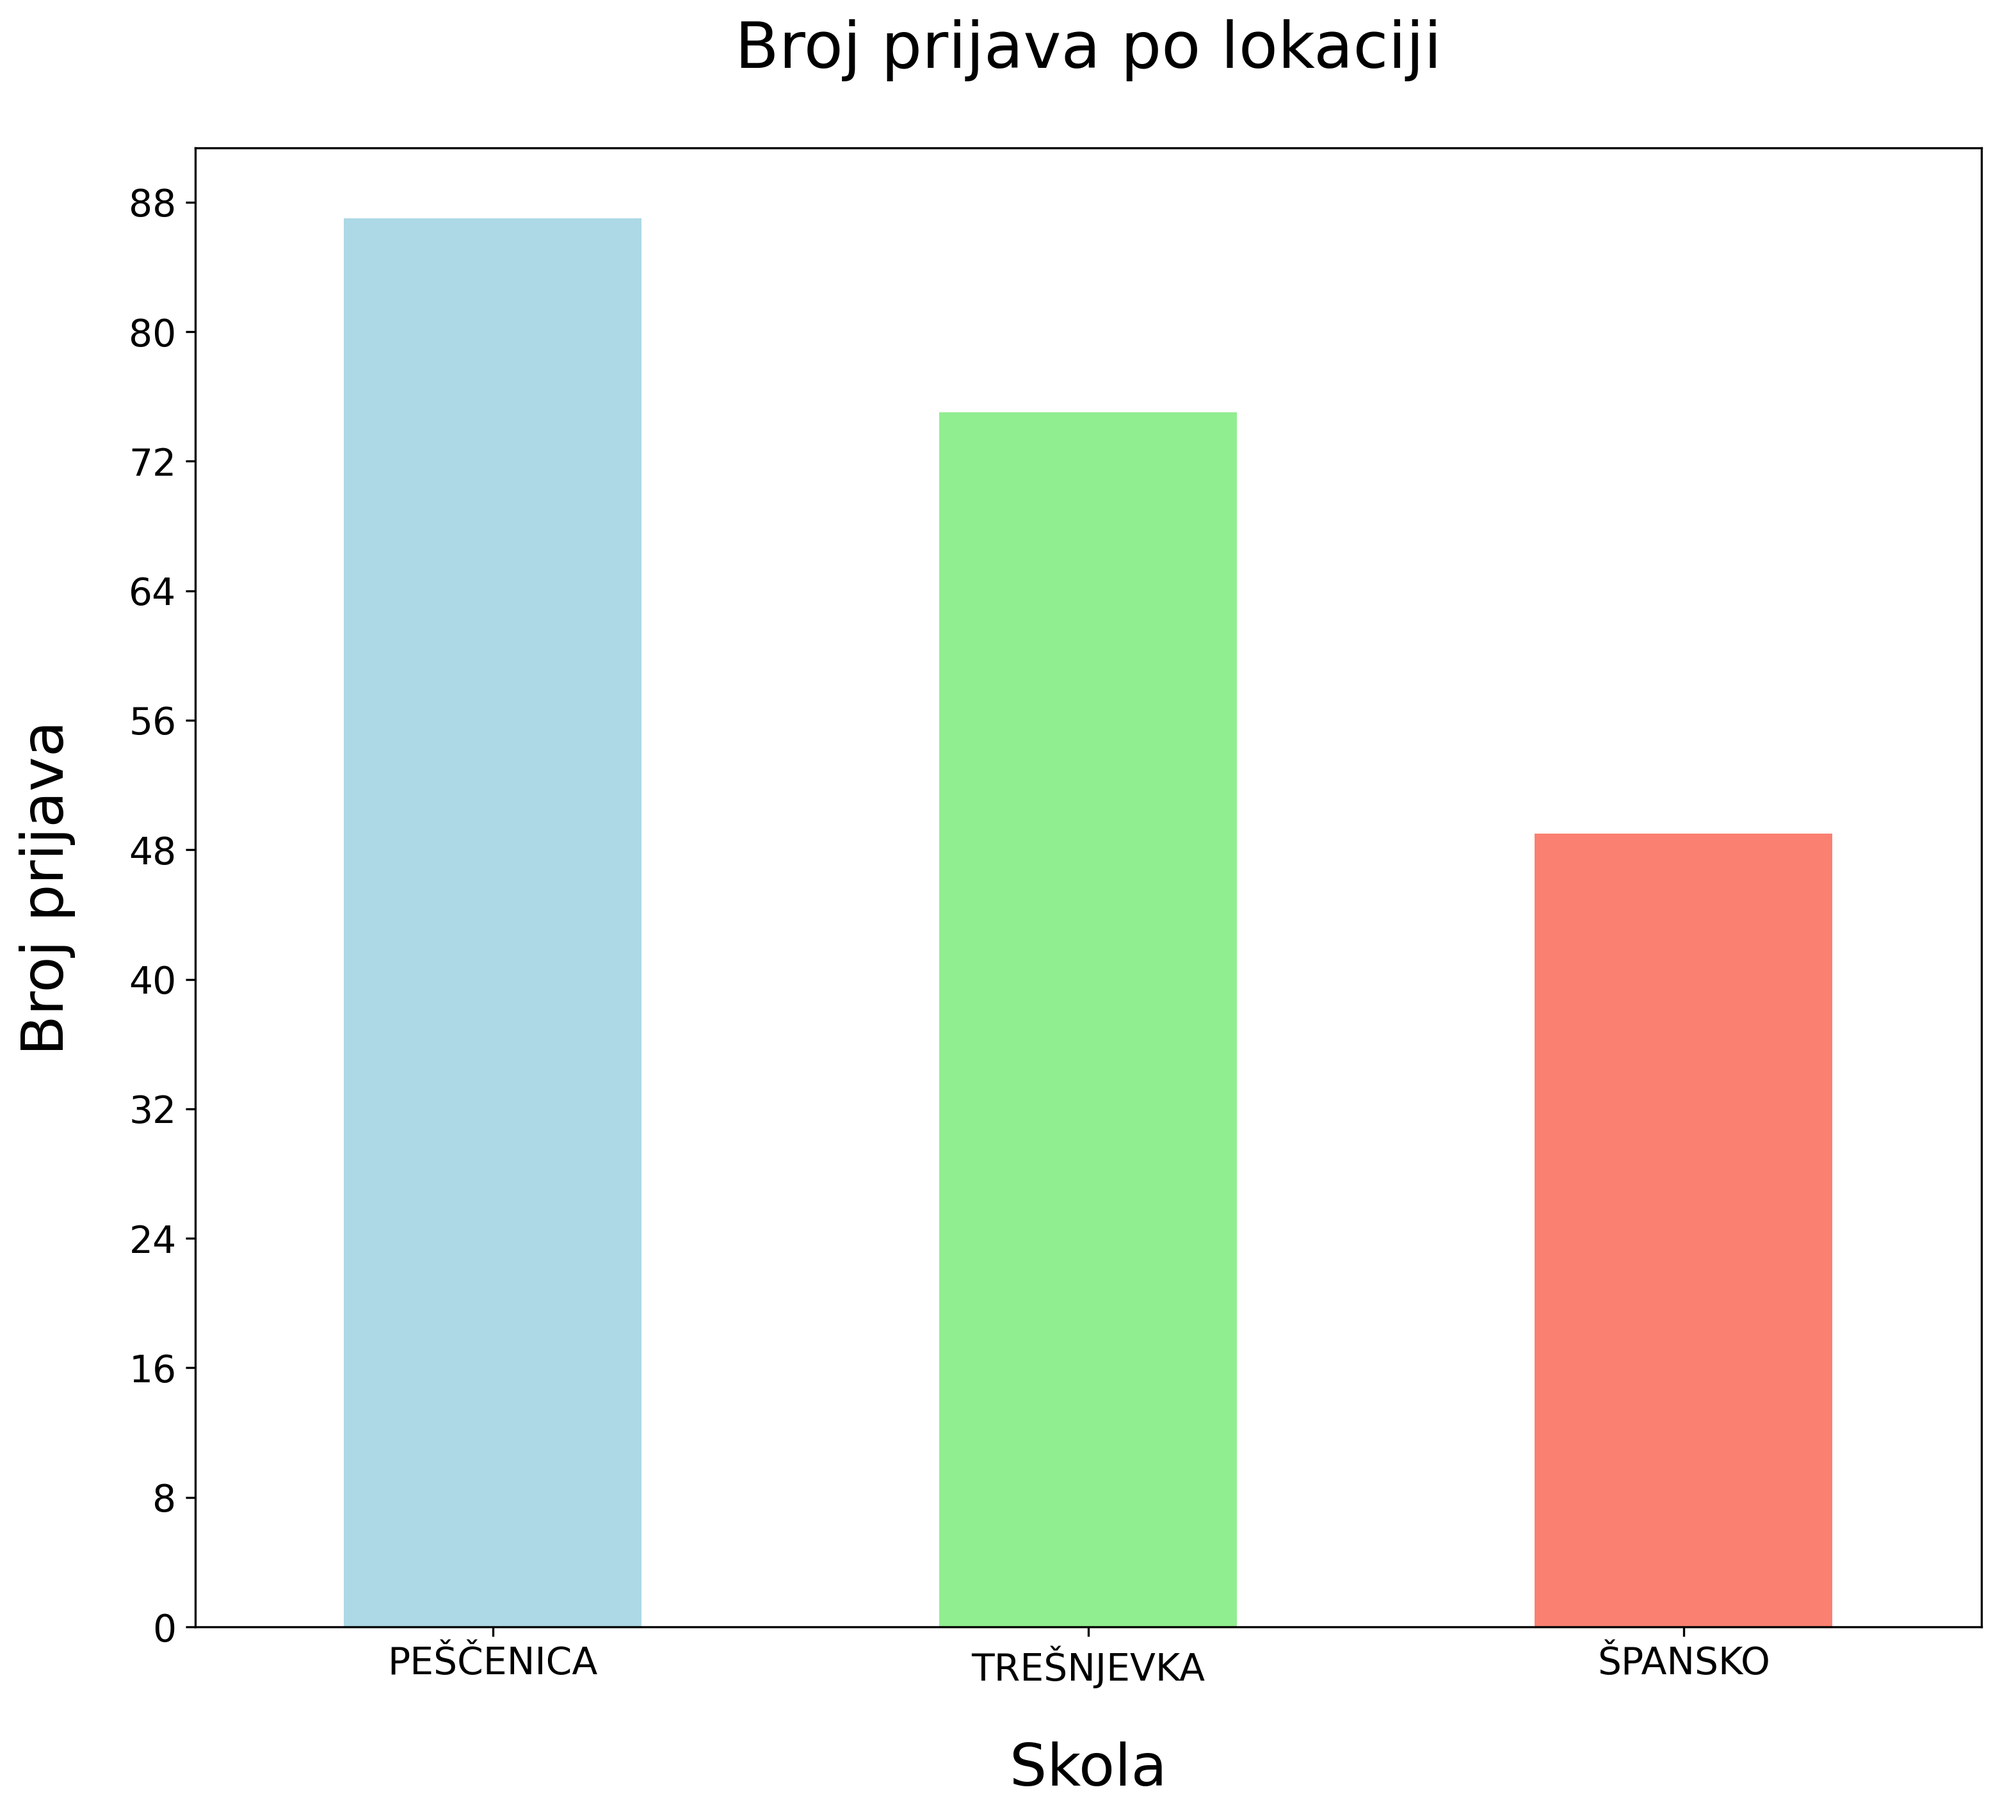
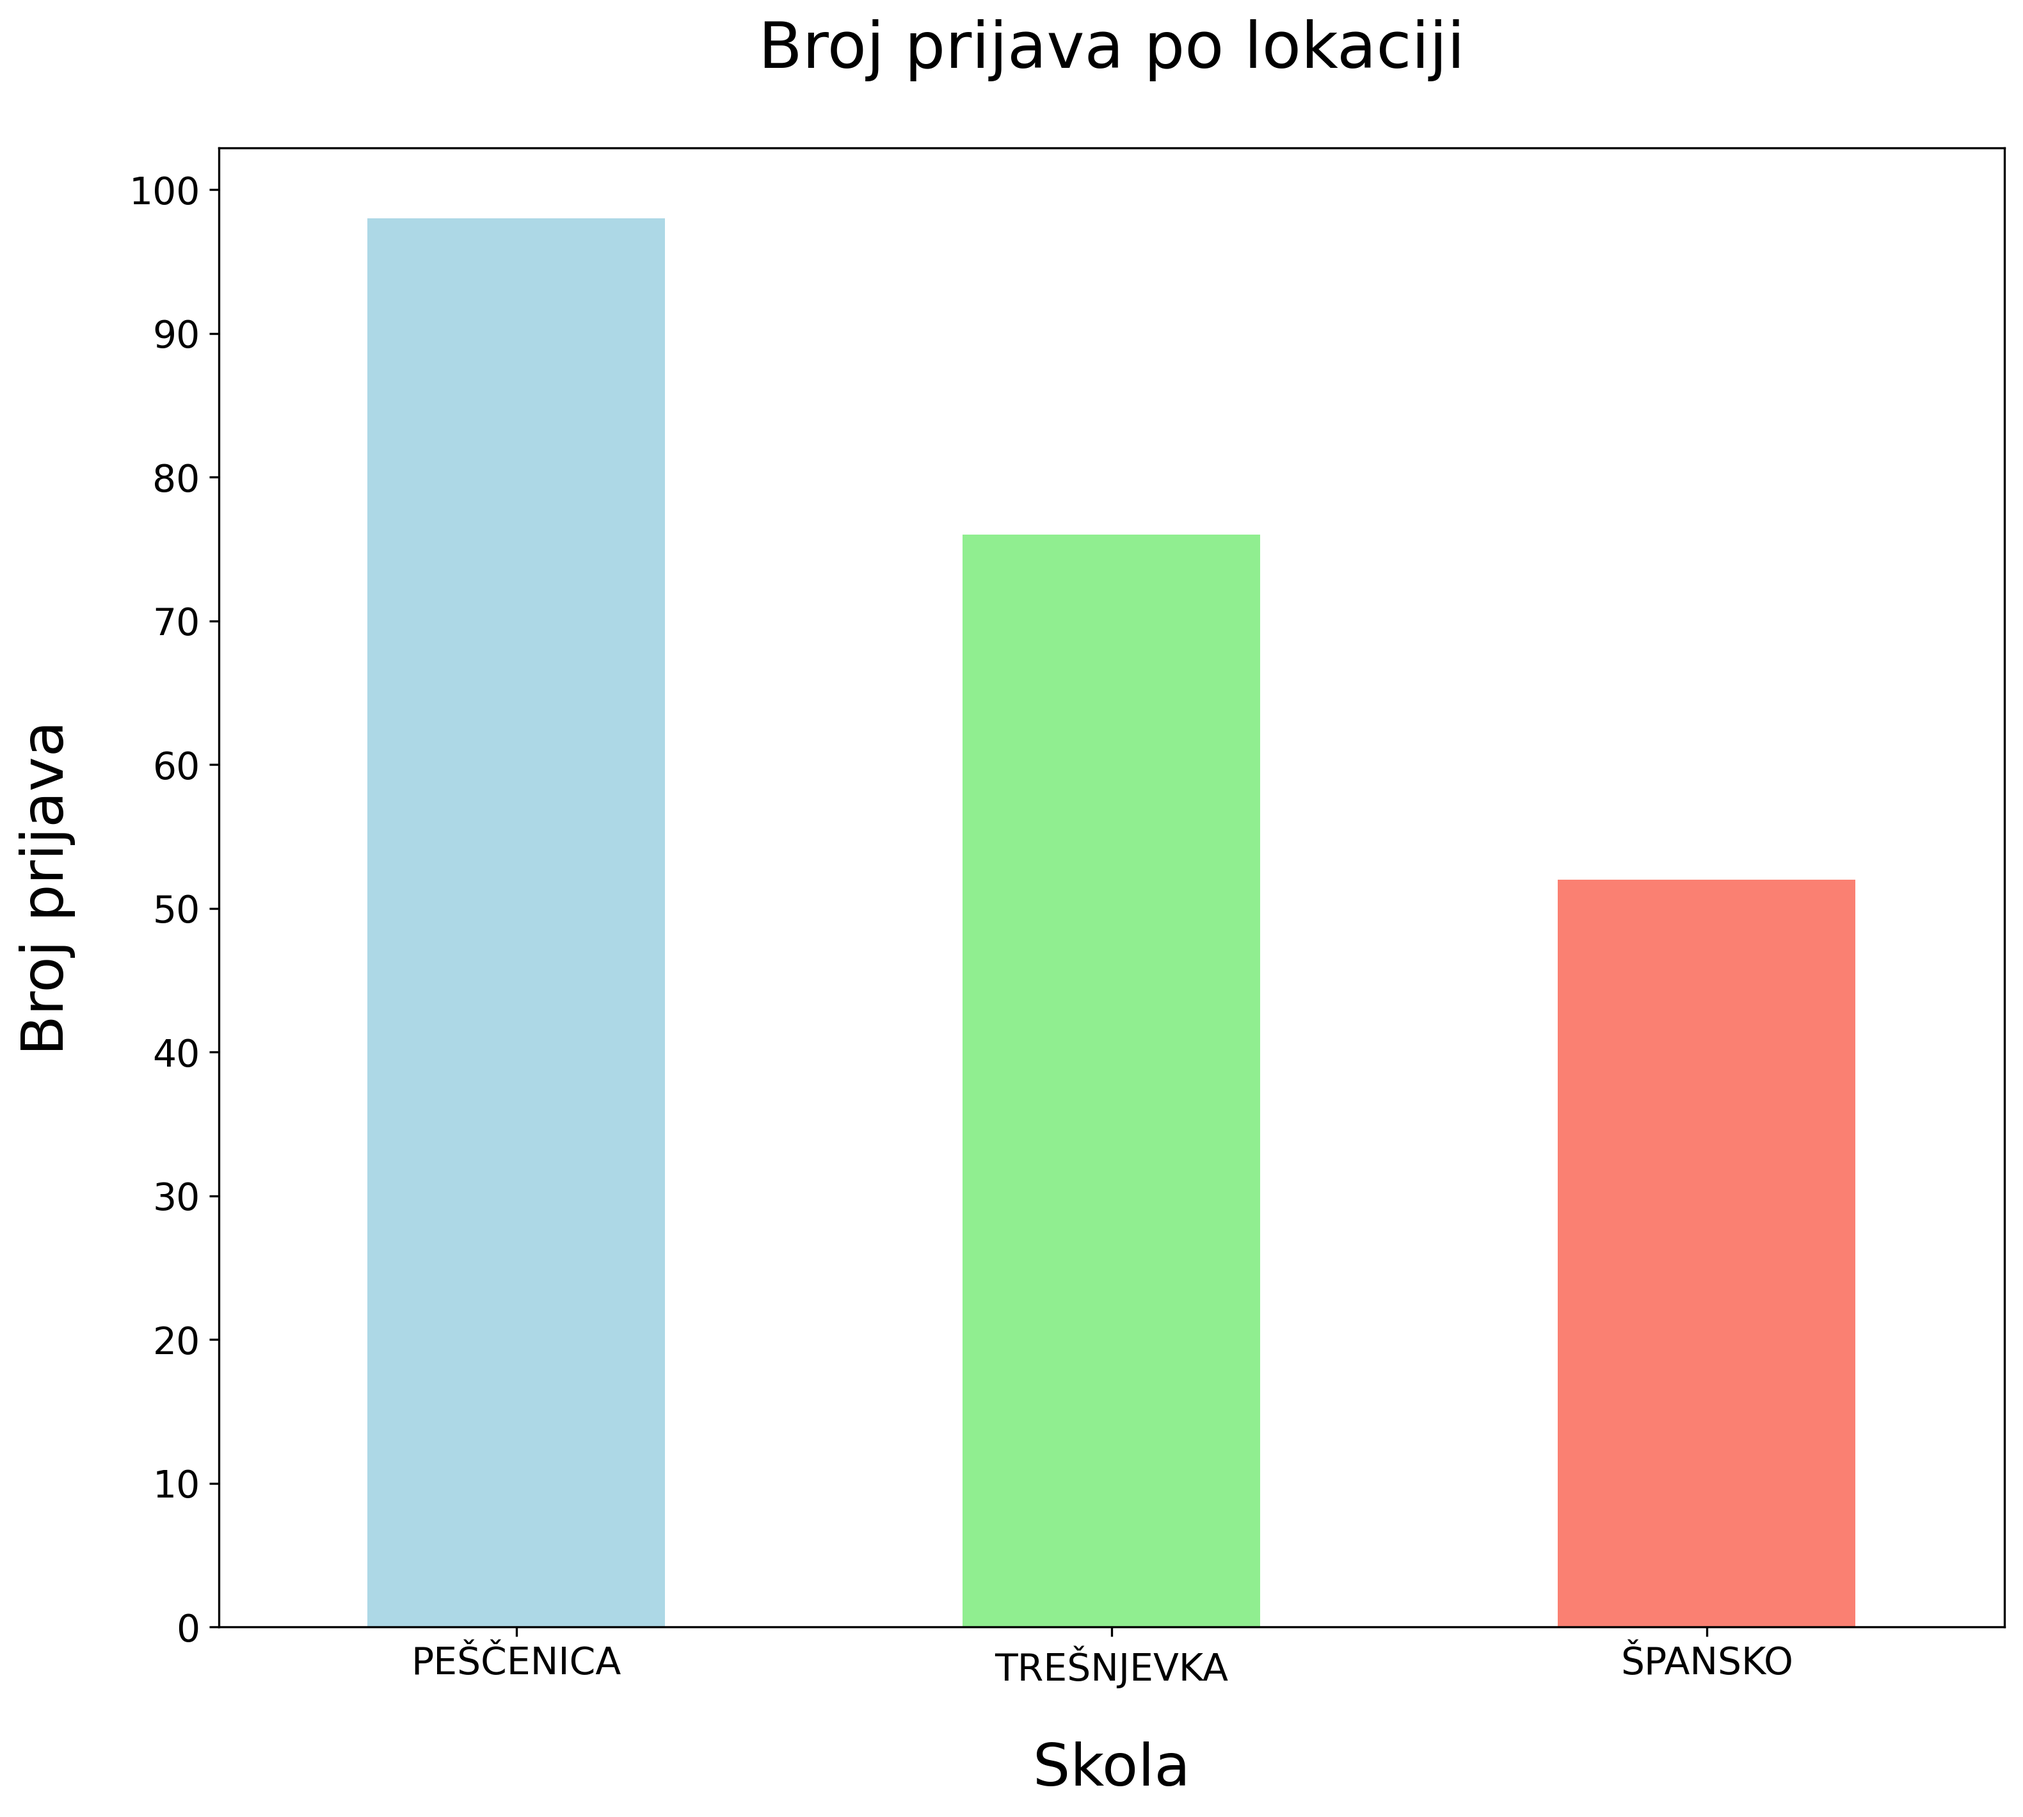
Actualised

diff --git a/ANALYZERS/graphers.py b/ANALYZERS/graphers.py
@@ -10,27 +10,27 @@ def graph_razred(df: pd.DataFrame, save_directory: str, y_label: str = 'Broj pri
     counts = df['RAZRED'].value_counts()
     counts = counts.sort_index()
     
-    vis.graph_bar_plot(counts, size = (12,10), save_path = save_directory+ f'{y_label.lower().replace(' ', '_')}_po_razredu_graf.png', x_label = 'Razred', y_label = y_label, title = f'{y_label} po razredu')
+    vis.graph_bar_plot(counts, size = (12,10), save_path = save_directory+ f"{y_label.lower().replace(' ', '_')}_po_razredu_graf.png", x_label = 'Razred', y_label = y_label, title = f'{y_label} po razredu')
     
     counts = counts.reset_index()
     counts.columns = ['RAZRED', y_label.upper()]
     counts.set_index('RAZRED', inplace=True)
     counts = counts.reset_index()
     
-    vis.graph_table(counts = counts, save_path = save_directory+f'{y_label.lower().replace(' ', '_')}_po_razredu_tablica.png')
+    vis.graph_table(counts = counts, save_path = save_directory+f"{y_label.lower().replace(' ', '_')}_po_razredu_tablica.png")
     
 def graph_skola(df: pd.DataFrame, save_directory: str, y_label: str = 'Broj prijava'):
     
     counts = df['SKOLA'].value_counts()
     
-    vis.graph_bar_plot(counts, size = (12,10), save_path = save_directory + f'{y_label.lower().replace(' ', '_')}_po_skoli_graf.png', x_label = 'Škola', y_label = y_label, title = f'{y_label} po školi')
+    vis.graph_bar_plot(counts, size = (12,10), save_path = save_directory + f"{y_label.lower().replace(' ', '_')}_po_skoli_graf.png", x_label = 'Škola', y_label = y_label, title = f'{y_label} po školi')
     
     counts = counts.reset_index()
     counts.columns = ['ŠKOLA', y_label.upper()]
     counts.set_index('ŠKOLA', inplace=True)
     counts = counts.reset_index()
     
-    vis.graph_table(counts = counts, save_path = save_directory+f'{y_label.lower().replace(' ', '_')}_po_skoli_tablica.png')
+    vis.graph_table(counts = counts, save_path = save_directory+f"{y_label.lower().replace(' ', '_')}_po_skoli_tablica.png")
     
 def graph_lokacija(df: pd.DataFrame, save_directory: str, y_label: str = 'Broj prijava'):
     
@@ -39,14 +39,14 @@ def graph_lokacija(df: pd.DataFrame, save_directory: str, y_label: str = 'Broj p
     counts = flattened['LOKACIJA'].value_counts()
     counts = counts.sort_index()
     
-    vis.graph_bar_plot(counts, size = (12,10), save_path = save_directory+f'{y_label.lower().replace(' ', '_')}_po_lokaciji_graf.png', x_label = 'Skola', y_label = y_label, title = f'{y_label} po lokaciji')
+    vis.graph_bar_plot(counts, size = (12,10), save_path = save_directory+f"{y_label.lower().replace(' ', '_')}_po_lokaciji_graf.png", x_label = 'Skola', y_label = y_label, title = f'{y_label} po lokaciji')
     
     counts = counts.reset_index()
     counts.columns = ['LOKACIJA', y_label.upper()]
     counts.set_index('LOKACIJA', inplace=True)
     counts = counts.reset_index()
     
-    vis.graph_table(counts = counts, save_path = save_directory+f'{y_label.lower().replace(' ', '_')}_po_lokaciji_tablica.png')
+    vis.graph_table(counts = counts, save_path = save_directory+f"{y_label.lower().replace(' ', '_')}_po_lokaciji_tablica.png")
 
 def graph_termin(df: pd.DataFrame, save_directory: str, y_label: str = 'Broj prijava'):
     
@@ -55,14 +55,14 @@ def graph_termin(df: pd.DataFrame, save_directory: str, y_label: str = 'Broj pri
     counts = flattened['TERMIN'].value_counts()
     counts = counts.sort_index(ascending=False)
     
-    vis.graph_bar_plot(counts, size = (12,10), save_path = save_directory+f'{y_label.lower().replace(' ', '_')}_po_terminu_graf.png', x_label = 'Termin', y_label = y_label, title = f'{y_label} po terminu')
+    vis.graph_bar_plot(counts, size = (12,10), save_path = save_directory+f"{y_label.lower().replace(' ', '_')}_po_terminu_graf.png", x_label = 'Termin', y_label = y_label, title = f'{y_label} po terminu')
     
     counts = counts.reset_index()
     counts.columns = ['TERMIN', y_label.upper()]
     counts.set_index('TERMIN', inplace=True)
     counts = counts.reset_index()
     
-    vis.graph_table(counts = counts, save_path = save_directory+f'{y_label.lower().replace(' ', '_')}_po_terminu_tablica.png')
+    vis.graph_table(counts = counts, save_path = save_directory+f"{y_label.lower().replace(' ', '_')}_po_terminu_tablica.png")
        
 def graph_predmet(df: pd.DataFrame, save_directory: str, y_label: str = 'Broj prijava'):
     
@@ -71,25 +71,25 @@ def graph_predmet(df: pd.DataFrame, save_directory: str, y_label: str = 'Broj pr
     counts = flattened['PREDMET'].value_counts()
     counts = counts.sort_index(ascending=False)
     
-    vis.graph_bar_plot(counts, size = (12,10), save_path = save_directory+f'{y_label.lower().replace(' ', '_')}_po_predmetu_graf.png', x_label = 'Predmet', y_label = y_label, title = f'{y_label} po predmetu')
+    vis.graph_bar_plot(counts, size = (12,10), save_path = save_directory+f"{y_label.lower().replace(' ', '_')}_po_predmetu_graf.png", x_label = 'Predmet', y_label = y_label, title = f'{y_label} po predmetu')
     
     counts = counts.reset_index()
     counts.columns = ['PREDMET', y_label.upper()]
     counts.set_index('PREDMET', inplace=True)
     counts = counts.reset_index()
     
-    vis.graph_table(counts = counts, save_path = save_directory+f'{y_label.lower().replace(' ', '_')}_po_predmetu_tablica.png')
+    vis.graph_table(counts = counts, save_path = save_directory+f"{y_label.lower().replace(' ', '_')}_po_predmetu_tablica.png")
     
 def graph_gender(df: pd.DataFrame, save_directory: str, y_label: str = 'Broj prijava'):
     
     counts = df['SPOL'].value_counts()
     counts = counts.sort_index(ascending=False)
     
-    vis.graph_bar_plot(counts, size = (12,10), save_path = save_directory+f'{y_label.lower().replace(' ', '_')}_po_spolu_graf.png', x_label = 'Spol', y_label = y_label, title = f'{y_label} po predmetu')
+    vis.graph_bar_plot(counts, size = (12,10), save_path = save_directory+f"{y_label.lower().replace(' ', '_')}_po_spolu_graf.png", x_label = 'Spol', y_label = y_label, title = f'{y_label} po predmetu')
     
     counts = counts.reset_index()
     counts.columns = ['SPOL', y_label.upper()]
     counts.set_index('SPOL', inplace=True)
     counts = counts.reset_index()
     
-    vis.graph_table(counts = counts, save_path = save_directory+f'{y_label.lower().replace(' ', '_')}_po_spolu_tablica.png')
+    vis.graph_table(counts = counts, save_path = save_directory+f"{y_label.lower().replace(' ', '_')}_po_spolu_tablica.png")

diff --git a/constants.py b/constants.py
@@ -1,8 +1,8 @@
-file_path = './DATA/Prijave 23.10..xlsx'
+file_path = './DATA/Prijave 3.11..xlsx'
 sheet_name = 'Form Responses 1'
-column_dict = {'Timestamp':'VRIJEME', 'Ime i prezime': 'IME', 'Škola/fakultet': 'SKOLA', 'Razred':'RAZRED', 'Lokacija': 'LOKACIJA', 'Iz kojih područja primarno želiš davati instrukcije?': 'PREDMET', 'Lokacije koje ti odgovaraju (sve lokacije na koje možeš dolaziti)': 'TERMIN', 'Broj mobitela (za WhatsApp grupu)': 'BROJ'}
+column_dict = {'Timestamp':'VRIJEME', 'Ime i prezime': 'IME', 'Škola/fakultet': 'SKOLA', 'Razred':'RAZRED', 'Lokacije koje ti odgovaraju (sve lokacije na koje možeš dolaziti)': 'LOKACIJA', 'Iz kojih područja primarno želiš davati instrukcije?': 'PREDMET', 'Koji termin ti odgovara?': 'TERMIN', 'Broj mobitela (za WhatsApp grupu)': 'BROJ'}
 locations = ['Trešnjevka', 'Peščenica', 'Špansko']
-school_tuples = [('MIOC', 'mioc', 'xv'), ('PŠVP', 'pšvp', 'ps', 'vla'), ('KGZ', 'kla', 'kgz'), ('GTB', 'gtb', 'tit'), ('GLV', 'glv', 'luc')]
+school_tuples = [('MIOC', 'mioc', 'xv'), ('PŠVP', 'pšvp', 'ps', 'vla'), ('KGZ', 'kla', 'kgz'), ('GTB', 'gtb', 'tit'), ('GLV', 'glv', 'luc'), ('III.', 'iii', 'III', '3. gim')]
 subjects = ['matematika', 'jezici', 'prirodoslovni']
 availabilities = ['utorak', 'četvrtak', 'nijedno']
 

diff --git a/main.py b/main.py
@@ -19,3 +19,5 @@ gra.graph_gender(gl.load_genders(), './RESULTS/')
 cgra.graph_lokacije_pie(df, './RESULTS/')
 cgra.graph_time_distribution_skole(df, './RESULTS/')
 cgra.graph_time_distribution_general(df, './RESULTS/')
+
+print(len(df))
